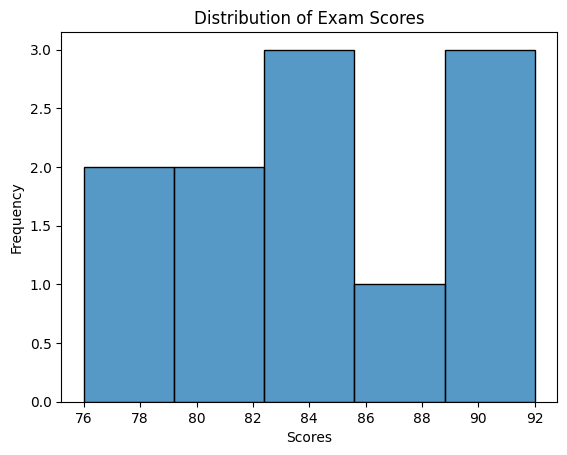
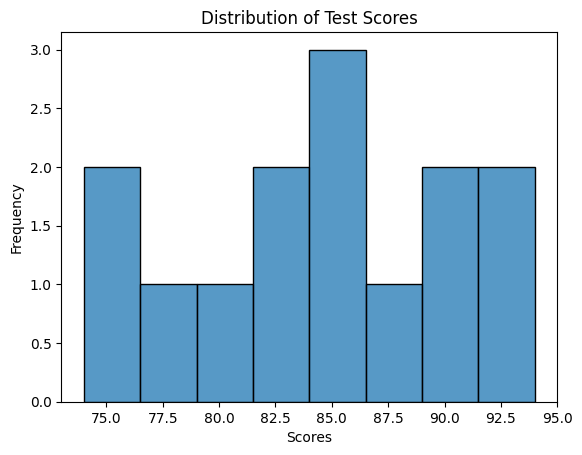
lesson: working on lesson 4.4

diff --git a/src/lessons/data-visualization/data-distribution.md b/src/lessons/data-visualization/data-distribution.md
@@ -1,25 +1,50 @@
-# Data distribution
-
+# Data Distribution
+Imagine you have a dataset containing the ages of a group of people. Then, you want to understand how the ages are distributed, which means you want to see how many people fall into different age ranges. This is what data distribution is about, and `histograms` and  `density plots` are useful visualizations for this purpose.
 
 
 ### 1. Histogram
-A histogram is used to visualize the distribution of a continuous variable. It displays the frequency or count of observations falling within specific intervals or bins. Seaborn's `histplot()` function can be used to create histograms.
+A histogram is used to visualize the distribution of a continuous variable by displaying the frequency or count of observations falling within specific intervals or bins. A histogram is like a bar graph that shows the frequency or count of scores falling within specific score ranges, known as `bins`. Each bar in the histogram represents a bin, and its height indicates the number of students with scores within that range. 
 
-Suppose we have data on the exam scores of a class of students. A histogram helps us understand the distribution of scores. Now, let's use Seaborn's `histplot()` function to create this plot.
+For example, if the histogram shows a tall bar around the 70-80 range, it means many students scored within that range. A histogram helps visualize the overall pattern and spread of the scores, allowing you to identify common score ranges or any outliers. Seaborn's `histplot()` function can be used to create histograms.
+
+Suppose we have data on the exam scores of a class of students. A histogram helps us understand the distribution of scores. For example
 
 ```python
 import seaborn as sns
-import matplotlib.pyplot as plt
 
-# Imaginary data
-scores = [78, 85, 90, 92, 85, 76, 88, 80, 90, 85, 82]
+# Assuming you have a list of test scores called 'scores'
+scores = [78, 85, 90, 74, 92, 85, 76, 88, 80, 90, 85, 82, 94, 83]
 
 # Create a histogram
-sns.histplot(scores)
+sns.histplot(scores, bins=8)
+plt.title('Distribution of Test Scores')
 plt.xlabel('Scores')
 plt.ylabel('Frequency')
-plt.title('Distribution of Exam Scores')
 plt.show()
 ```
 
 ![histogram](./data-viz/histogram.png)
+
+### 2. Density plots
+A density plot, on the other hand, is a smooth line that shows the distribution of data as a continuous curve. Instead of using bins like a histogram, a density plot estimates the probability density function of the data. 
+
+It gives you an idea of how likely it is to find a data point within a certain range. In our age example, the density plot would show the likelihood of finding a person of a specific age. It can help you understand the overall shape of the distribution, such as whether it's symmetric, skewed to the right or left, or multi-modal (having multiple peaks). For example:
+
+```python
+import seaborn as sns
+
+# Assuming you have a list of test scores called 'scores'
+scores = [78, 85, 90, 74, 92, 85, 76, 88, 80, 90, 85, 82, 94, 83]
+
+# Create a density plot
+sns.kdeplot(scores)
+plt.title('Density Plot of Test Scores')
+plt.xlabel('Scores')
+plt.ylabel('Density')
+plt.show()
+```
+
+![density-plot.png](./data-viz/density-plot.png)
+
+Now that we have an idea of data distribtipn using histogram and density plot, let's apply these distrubtion techniques on a real-life dataset.
+
